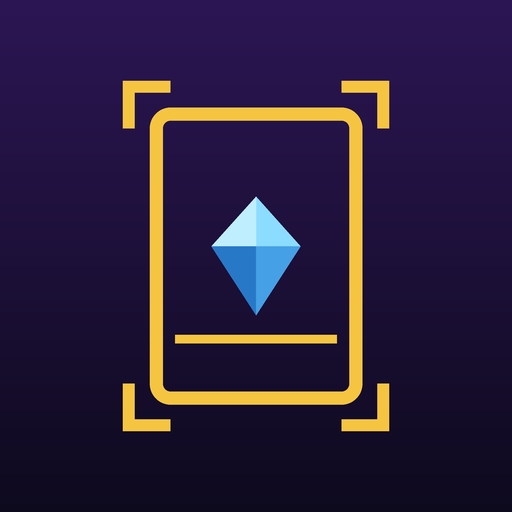
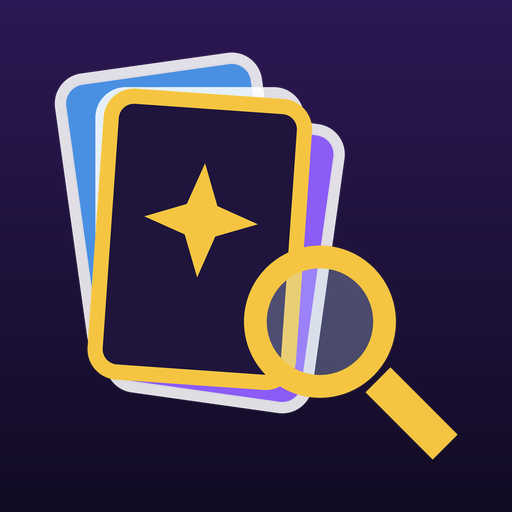
TCG Scanner BR: novo nome e ícone do app
O Mana Scanner BR passou a se chamar TCG Scanner BR (versão 2.0.0). Página
inicial, política de privacidade e exclusão de conta com o nome novo; contato
pelo e-mail oficial. Os endereços das páginas não mudam.

Changed region(s): [[0.0938, 0.0938, 0.9062, 0.9062]]

diff --git a/mana-scanner-br/excluir-conta.html b/mana-scanner-br/excluir-conta.html
@@ -3,7 +3,7 @@
 <head>
   <meta charset="utf-8">
   <meta name="viewport" content="width=device-width, initial-scale=1">
-  <title>Excluir conta — Mana Scanner BR</title>
+  <title>Excluir conta — TCG Scanner BR</title>
   <link rel="stylesheet" href="../style.css">
   <style>
     .box { border: 1px solid color-mix(in srgb, var(--muted) 40%, transparent); border-radius: 14px; padding: 20px; margin: 20px 0; }
@@ -21,10 +21,10 @@
 <body>
 <main>
   <p class="eyebrow">Felipe Jogos Games</p>
-  <h1>Excluir conta — Mana Scanner BR</h1>
+  <h1>Excluir conta — TCG Scanner BR</h1>
   <p class="muted">Última atualização: 19 de outubro de 2026</p>
 
-  <p>A conta do <strong>Mana Scanner BR</strong> é opcional e serve apenas para guardar os seus fichários na nuvem.
+  <p>A conta do <strong>TCG Scanner BR</strong> é opcional e serve apenas para guardar os seus fichários na nuvem.
   Você pode excluí-la a qualquer momento: aqui mesmo, pelo app ou por e-mail.</p>
 
   <h2>Excluir por esta página</h2>
@@ -47,7 +47,7 @@
 
   <h2>Pelo app</h2>
   <ol>
-    <li>Abra o Mana Scanner BR e vá na aba <strong>Conta</strong>.</li>
+    <li>Abra o TCG Scanner BR e vá na aba <strong>Conta</strong>.</li>
     <li>Toque em <strong>Excluir conta</strong> e confirme.</li>
     <li>Entre de novo com a conta Google, se o app pedir, para confirmar que é você.</li>
   </ol>
@@ -132,7 +132,7 @@
         const email = result.user.email ?? 'esse e-mail';
         await deleteUser(result.user).catch(() => signOut(auth));
         render(null);
-        status(`Não existe conta do Mana Scanner BR com ${email}. Nada foi guardado.`, 'err');
+        status(`Não existe conta do TCG Scanner BR com ${email}. Nada foi guardado.`, 'err');
         return;
       }
       render(result.user);

diff --git a/mana-scanner-br/privacidade.html b/mana-scanner-br/privacidade.html
@@ -3,16 +3,16 @@
 <head>
   <meta charset="utf-8">
   <meta name="viewport" content="width=device-width, initial-scale=1">
-  <title>Política de Privacidade — Mana Scanner BR</title>
+  <title>Política de Privacidade — TCG Scanner BR</title>
   <link rel="stylesheet" href="../style.css">
 </head>
 <body>
 <main>
   <p class="eyebrow">Felipe Jogos Games</p>
-  <h1>Política de Privacidade — Mana Scanner BR</h1>
-  <p class="muted">Última atualização: 19 de outubro de 2026</p>
+  <h1>Política de Privacidade — TCG Scanner BR</h1>
+  <p class="muted">Última atualização: 22 de outubro de 2026</p>
 
-  <p>O <strong>Mana Scanner BR</strong> é um aplicativo para Android que identifica cartas de Magic: The Gathering,
+  <p>O <strong>TCG Scanner BR</strong> (antes chamado Mana Scanner BR) é um aplicativo para Android que identifica cartas de Magic: The Gathering,
   Pokémon TCG e Yu-Gi-Oh! pela câmera, por uma foto da galeria ou pelo nome digitado, e abre a página da carta nas
   Ligas (LigaMagic, LigaPokemon, LigaYugioh) para consulta de preços. Esta política explica quais dados o app usa e por quê.</p>
 
@@ -89,7 +89,7 @@
   <h2>Contato</h2>
   <p>Felipe Jogos Games — <a href="mailto:felipejogosgamesoficial@gmail.com">felipejogosgamesoficial@gmail.com</a></p>
 
-  <p class="muted small">Mana Scanner BR é um aplicativo independente, sem afiliação com as Ligas, o Scryfall, o TCGdex,
+  <p class="muted small">TCG Scanner BR é um aplicativo independente, sem afiliação com as Ligas, o Scryfall, o TCGdex,
   a YGOPRODeck, a Wizards of the Coast, a The Pokémon Company ou a Konami.</p>
 </main>
 </body>

diff --git a/index.html b/index.html
@@ -11,14 +11,14 @@
   <p class="eyebrow">Felipe Jogos Games</p>
   <h1>Apps</h1>
 
-  <img class="icon" src="mana-scanner-br/icon.png" alt="Ícone do Mana Scanner BR">
-  <h2>Mana Scanner BR</h2>
+  <img class="icon" src="mana-scanner-br/icon.png" alt="Ícone do TCG Scanner BR">
+  <h2>TCG Scanner BR</h2>
   <p>Escaneie cartas de Magic: The Gathering, Pokémon TCG e Yu-Gi-Oh! e consulte os preços nas Ligas,
   já filtrados pela edição e condição da sua carta.</p>
   <p><a href="mana-scanner-br/privacidade.html">Política de Privacidade</a></p>
 
   <h2>Contato</h2>
-  <p><a href="mailto:felipe-souza-azevedo@hotmail.com">felipe-souza-azevedo@hotmail.com</a></p>
+  <p><a href="mailto:felipejogosgamesoficial@gmail.com">felipejogosgamesoficial@gmail.com</a></p>
 </main>
 </body>
 </html>
